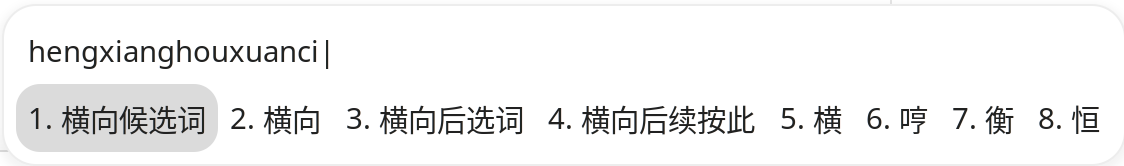
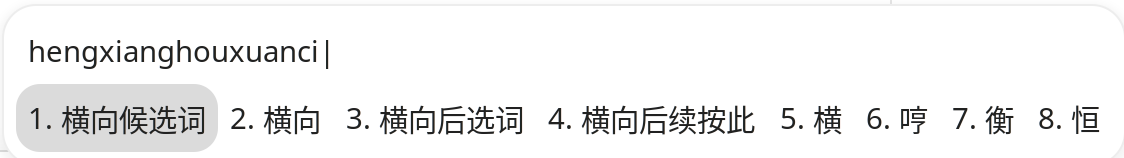
docs: README 截图做成带说明的图集，加上全简拼混打和中英混打两张

diff --git a/README.md b/README.md
@@ -15,6 +15,8 @@
 
 <img src="docs/images/candidates.png" width="640" alt="打 hengxianghouxuanci 时的横排候选条：横向候选词、横向、横向后选词……">
 
+<sub>候选横排，和微信输入法一样：整句只留几个，后面是词，最后是单字</sub>
+
 </div>
 
 ## 特性
@@ -28,9 +30,36 @@
 - **符号和繁体**：`/juhao` → 。；可切繁体输出；可开模糊音、自然码双拼。
 - **快、全在本地**：89 万词的词库，按一个键一般几毫秒内出候选；不联网，输入内容不离开你的电脑。
 
+<table>
+<tr>
+<td align="center" width="50%">
+<img src="docs/images/sentence-head.png" alt="打 xiangquzijieshangban 时的候选：想去字节上班、想去字节……"><br>
+<b>长句一口气打完</b><br>
+<sub>还能只上屏前半截「想去字节」，剩下的接着选</sub>
+</td>
+<td align="center" width="50%">
+<img src="docs/images/typo.png" alt="打 weixni 时第一个候选是微信"><br>
+<b>按错顺序，没关系</b><br>
+<sub><code>weixni</code> 照样是「微信」</sub>
+</td>
+</tr>
+<tr>
+<td align="center">
+<img src="docs/images/mixed-jianpin.png" alt="打 wanqky 时第一个候选是完全可以"><br>
+<b>全简拼混打，也没问题</b><br>
+<sub><code>wanqky</code> → 完全可以</sub>
+</td>
+<td align="center">
+<img src="docs/images/english.png" alt="打 wechat 时第一个候选是 WeChat"><br>
+<b>中英混打，不用切换</b><br>
+<sub><code>wechat</code> → WeChat，大小写按词表来</sub>
+</td>
+</tr>
+</table>
+
 ## 示例
 
-下面是用默认词库（雾凇拼音）实际打出来的候选，可以用 `wowtype-show` 自己试：
+更多例子（默认词库雾凇拼音实际打出来的候选，可以用 `wowtype-show` 自己试）：
 
 | 输入 | 候选（前几个） | 说明 |
 |---|---|---|
@@ -41,12 +70,10 @@
 | `zhognguo` | **中国** · 种过 · 重过 | 两个键按反了 |
 | `bjdx` | **北京大学** · 北京电信 · 半径大小 | 简拼 |
 | `sz` | **设置** · 甚至 · 随着 · 深圳 · 是指 | 简拼 |
+| `wanqky` | **完全可以** · 晚期一 · 完企业 · 完其余 · 完全开源 | 全拼和简拼混着打 |
 | `yongzwen` | **用中文** · 用正文 · 拥着我 · 用在 · 用作 | 全拼和只打声母的音节混着打 |
-| `github` | **GitHub** | 英文词按词表里的写法给出 |
-
-| 长句：第 2 个是句子前半截，选它只上屏这一段 | 按反了键：`weixni` 也能出「微信」 |
-|---|---|
-| <img src="docs/images/sentence-head.png" width="420" alt="打 xiangquzijieshangban 时的候选：想去字节上班、想去字节……"> | <img src="docs/images/typo.png" width="420" alt="打 weixni 时第一个候选是微信"> |
+| `wechat` | **WeChat** · 色差他 · 色插图 | 英文词按词表里的写法给出 |
+| `github` | **GitHub** | 同上 |
 
 ## 安装
 
